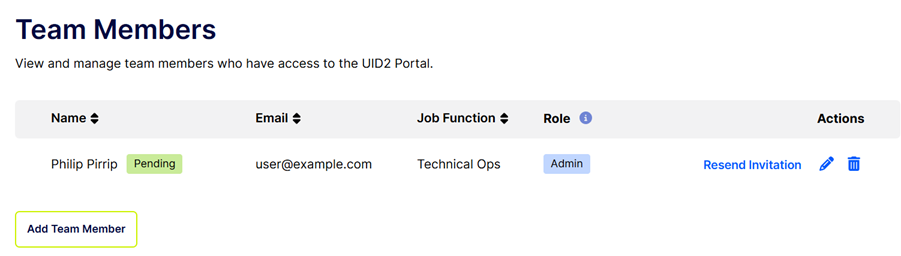
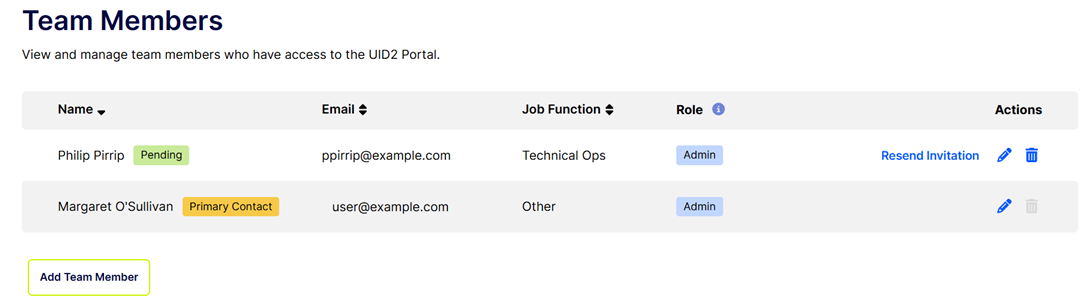
Portal doc, add primary contact info

diff --git a/docs/portal/team-members.md b/docs/portal/team-members.md
@@ -13,6 +13,7 @@ import Link from '@docusaurus/Link';
 In the UID2 Portal, on the **Team Members** page, users with the Admin role can perform all activities relating to configuring individuals who you want to authorize for access to your account, including the following:
 
 - [Add a Team Member](#add-a-team-member)
+- [Set the Primary Contact](#set-the-primary-contact)
 - [Resend an Invitation to a Team Member](#resend-an-invitation-to-a-team-member) 
 - [Edit Information for a Team Member](#edit-information-for-a-team-member) 
 - [Remove a Team Member](#remove-a-team-member)
@@ -32,6 +33,8 @@ For each team member, the following information is displayed:
   - Available for all: ![the Edit icon](images/icon-pencil-solid.png) (Edit) and ![the Delete icon](images/icon-trash-can-solid.png) (Delete).
   - If the user has been invited but has not yet accepted, a **Resend Invitation** link is also available.
 
+For the one team member who is the primary contact, a tag is displayed after the team member's name.
+
 For an illustration, see [Resend an Invitation to a Team Member](#resend-an-invitation-to-a-team-member).
 
 ## User Roles
@@ -43,7 +46,7 @@ Each team member has one of the roles shown in the following table.
 | Admin | Users with the Admin role can perform all activities related to UID2 participation, as summarized in the [UID2 Portal Overview](portal-overview.md), for the current participant organization. |
 | Operations | Users with the Operations role can perform most of the same actions as Admin users. However, there are some limitations:<ul><li>They cannot add, modify, or remove team members. Instead, they have read-only access to the [Team Members](team-members.md) page.</li><li>They cannot view the [Audit Trail](audit-trail.md) page.</li></ul> |
 
-User roles can only be modified by users with the Admin role. For details, see [Edit Information for a Team Member](#edit-information-for-a-team-member). 
+User roles can only be modified by users with the Admin role. For details, see [Edit Information for a Team Member](#edit-information-for-a-team-member).
 
 ## Add a Team Member
 
@@ -52,14 +55,35 @@ To add a team member, complete the following steps:
 1. Log in to your UID2 Portal account.
 1. At the top right, click the down arrow and choose **Manage Team Members**.
 1. Click **Add Team Member**.
-1. Enter the first name, last name, email, job function and role.
+1. Enter the first name, last name, email, job function, and role. For information on the roles, see [User Roles](#user-roles).
+1. Optional: To make this person the primary contact, check the **Set as primary contact** box. The Admin role is required for the primary contact. For details, see [Set the Primary Contact](#set-the-primary-contact).
 1. Click **Save Team Member**.
 
    The team member is added to the list, with Pending status, and an invitation email is sent to the invited person.
 
 :::note
-Team members can be added to more than one participant. Team members who belong to multiple participants can switch between participants, as shown in [UID2 Portal Structure](portal-overview.md#uid2-portal-structure).
+The same team member can be added to more than one participant. Team members who belong to multiple participants can switch between participants, as shown in [UID2 Portal Structure](portal-overview.md#uid2-portal-structure).
 :::
+
+## Set the Primary Contact
+
+One team member must be designated as the primary contact. Here's some key information about the primary contact:
+
+- There is one, and only one, primary contact.
+- By default, when the first team member is added, that person becomes the primary contact.
+- The primary contact must have the Admin role.
+- To remove the primary contact, or change the role to Operations, you must first specify a different team member to be the primary contact.
+- On the Team Members list, a tag is displayed after the primary contact's name. For an illustration, see [Resend an Invitation to a Team Member](#resend-an-invitation-to-a-team-member).
+
+
+To set a primary contact, complete the following steps:
+
+1. Log in to your UID2 Portal account.
+1. At the top right, click the down arrow and choose **Manage Team Members**.
+1. Do one of the following:
+
+   - To set an existing team member as the primary contact: Find that team member on the list and click ![the Edit icon](images/icon-pencil-solid.png) (the Edit icon). Check **Set as primary contact**, update the role to Admin if needed, and save the changes.
+   - To add a new team member as the primary contact: Follow the instructions in [Add a Team Member](#add-a-team-member). Check **Set as primary contact**, set the role to Admin, and save the changes.
 
 ## Resend an Invitation to a Team Member
 
